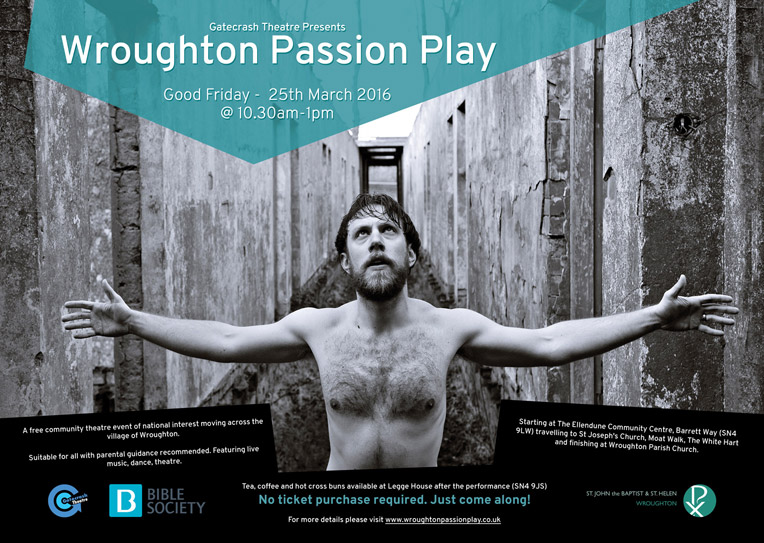
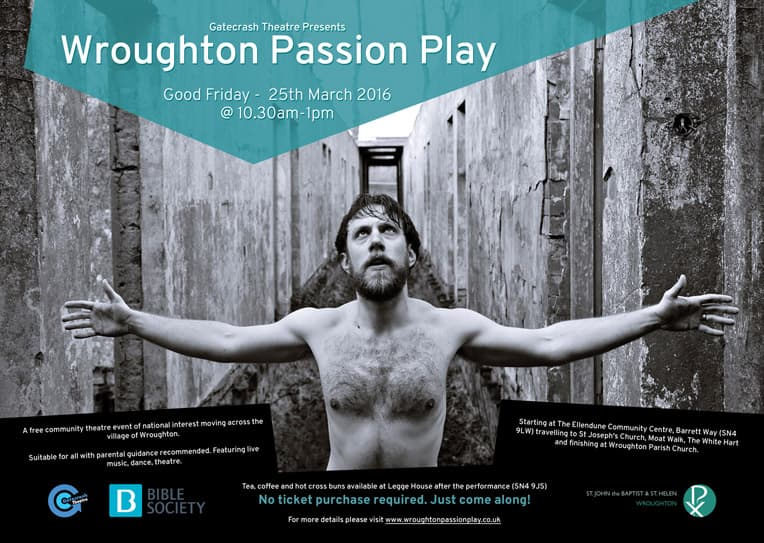
Optimised images

diff --git a/index.html b/index.html
@@ -87,7 +87,7 @@
                 </div>
                 <div class="slide" id="slide3">
                         <div class="intro intro-withimage">
-                            <img src="images/textanywhere.textapp.net_beta_textonline_newmessage.png" alt="TextAnywhere Application Screengrab" style="width:20%;">
+                            <img src="images/textanywhere.textapp.net_beta_textonline_newmessage.jpg" alt="TextAnywhere Application Screengrab" style="width:20%;">
                             <a class="enlarge" href="images/TA-NG-App-Lg.png"><i class="fas fa-search"></i></a>
                             <div class="text-content">
                                 <h1>TextAnywhere Application Site</h1>
@@ -200,7 +200,7 @@
 </div>
             <div class="slide" id="slide8">
                     <div class="intro intro-withimage">
-                            <img src="images/wroughtonpreschool.co.uk.png" alt="Wroughton Preschool Screengrab" style="width:20%;">
+                            <img src="images/wroughtonpreschool.co.uk.jpg" alt="Wroughton Preschool Screengrab" style="width:20%;">
                             <div class="text-content">
                                 <h1>Wroughton Preschool</h1>
                                 <p>
@@ -219,7 +219,7 @@
             </div>
             <div class="slide" id="slide9">
                     <div class="intro intro-withimage">
-                            <img src="images/www.wroughtonpassionplay.co.uk.png" alt="Wroughton Passion Play Screengrab" style="width:20%;">
+                            <img src="images/www.wroughtonpassionplay.co.uk.jpg" alt="Wroughton Passion Play Screengrab" style="width:20%;">
                             <div class="text-content">
                                 <h1>Wroughton Passion play</h1>
                                 <p>
@@ -257,7 +257,7 @@
             </div>
             <div class="slide" id="slide11">
                     <div class="intro intro-withimage">
-                            <img src="images/GCT.png" alt="Gatecrash Theatre Screengrab" style="width:20%;">
+                            <img src="images/GCT.jpg" alt="Gatecrash Theatre Screengrab" style="width:20%;">
                             <div class="text-content">
                                 <h1>Gatecrash Theatre</h1>
                                 <p>
